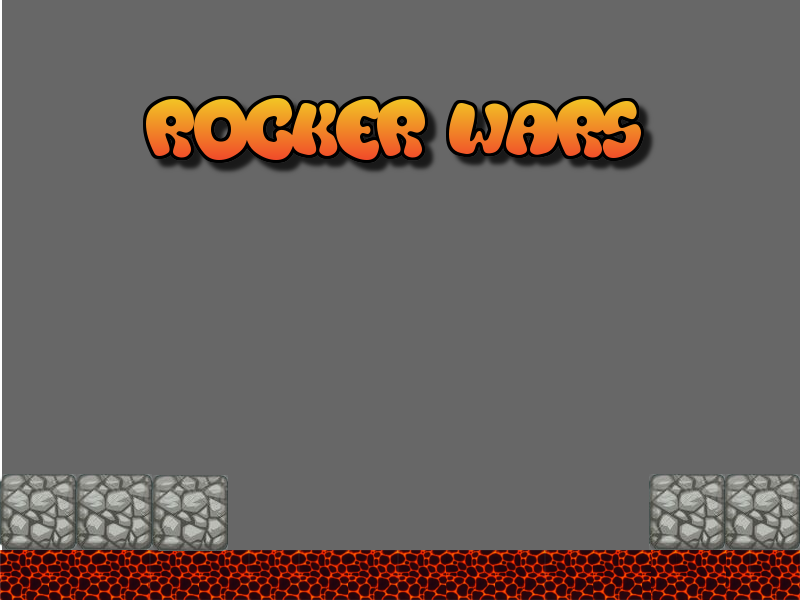
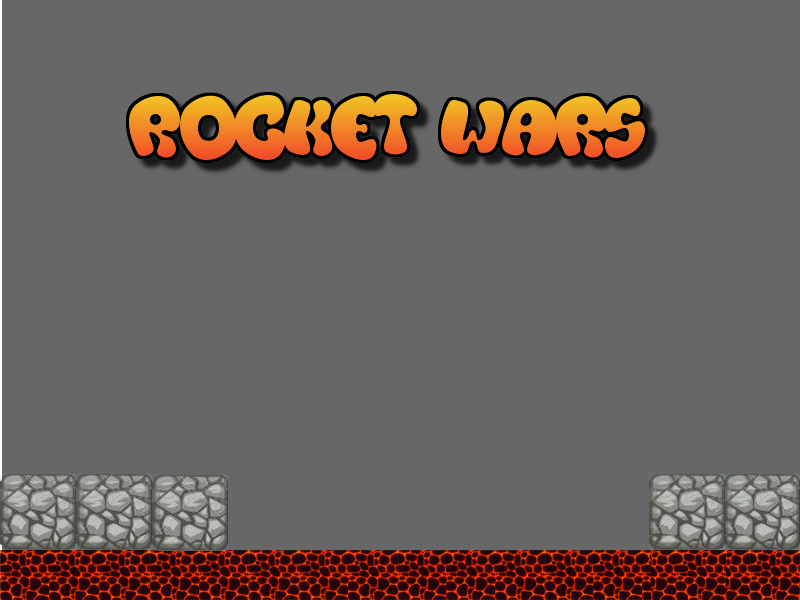
Change a typo and also made the power of the shot depend on the time space is down

Changed region(s): [[0.1562, 0.15, 0.8438, 0.3]]

diff --git a/js/lvlone.js b/js/lvlone.js
@@ -13,6 +13,7 @@ var lvlone = {
         var bulletGravity;
         var target;
         var life;  
+        var spacebar;
         },
 
     preload: function() {
@@ -78,9 +79,11 @@ var lvlone = {
         //Set number of lifes for the target
         life=2;
 
+        spacebarJustPressed = false;
+
         // Our controls.
         cursors = this.input.keyboard.createCursorKeys();
-
+        this.spacebar = this.input.keyboard.addKey(Phaser.Keyboard.SPACEBAR);
         //Add the bricks to the map
         this.initBricks();
         
@@ -133,11 +136,28 @@ var lvlone = {
             bazooka.angle -=2;
         }
 
+        
         //Call the fire a bullet if the spacebar is pressed
         if(this.input.keyboard.isDown(Phaser.Keyboard.SPACEBAR))
         {
-            this.fireBullet();
+            spacebarJustPressed = true;
         }
+
+        if(!this.input.keyboard.isDown(Phaser.Keyboard.SPACEBAR) && spacebarJustPressed)
+        {
+            //Calculate the time the spacebar has been hold down, this to change the force of the bullet.
+            var diff = Math.abs(this.spacebar.timeUp - this.spacebar.timeDown);
+            //console.log("Diff: " + diff);
+
+            this.fireBullet(diff);
+
+            spacebarJustPressed = false;
+        }
+
+    },
+
+    getlength: function(number) {
+    return number.toString().length;
     },
 
     initBricks:  function() {
@@ -171,7 +191,7 @@ var lvlone = {
     },
    
 
-    fireBullet: function() {
+    fireBullet: function(diff) {
 
         if (lvlone.time.now > bulletTime)
         {
@@ -180,7 +200,7 @@ var lvlone = {
             {
                 bullet.angle = bazooka.angle
                 bullet.reset(bazooka.x, bazooka.y - 6);
-                bullet.body.velocity = this.physics.arcade.velocityFromAngle(bullet.angle, 300, bullet.velocity);
+                bullet.body.velocity = this.physics.arcade.velocityFromAngle(bullet.angle, diff, bullet.velocity);
                 bullet.body.gravity.y=bulletGravity;
                 bulletTime = lvlone.time.now + 500;
             }

diff --git a/js/lvltwo.js b/js/lvltwo.js
@@ -87,6 +87,17 @@ var lvltwo = {
     },
 
     update: function() {
+
+        //Movable target
+        var period = game.time.now * 0.002;
+        var radius = 60;
+        target.x = 600 + Math.cos(period) * radius;
+        target.y = 200 + Math.sin(period) * radius;
+
+        //Set the bazooka's possition on the player
+        bazooka.x = player.x + 15;
+        bazooka.y = player.y + 33;
+
         //Check collisions between player,lava, bricks and bullets 
         this.physics.arcade.collide(player, bricks);
         this.physics.arcade.collide(target, bricks);
@@ -99,13 +110,6 @@ var lvltwo = {
 
         //Reset the players velocity (movement)
         player.body.velocity.x = 0;
-
-        //Movable target
-        var period = game.time.now * 0.002;
-        var radius = 60;
-        target.x = 600 + Math.cos(period) * radius;
-        target.y = this.world.height - 400 + Math.sin(period) * radius;
- 
 
         if (cursors.left.isDown)
         {
@@ -125,10 +129,6 @@ var lvltwo = {
             player.animations.stop();
             player.frame = 1;
         }
-
-        //Set the bazooka's possition on the player
-        bazooka.x = player.x + 15;
-        bazooka.y = player.y + 33;
         
         //Change the angle of the bazooka
         if (cursors.up.isDown)
